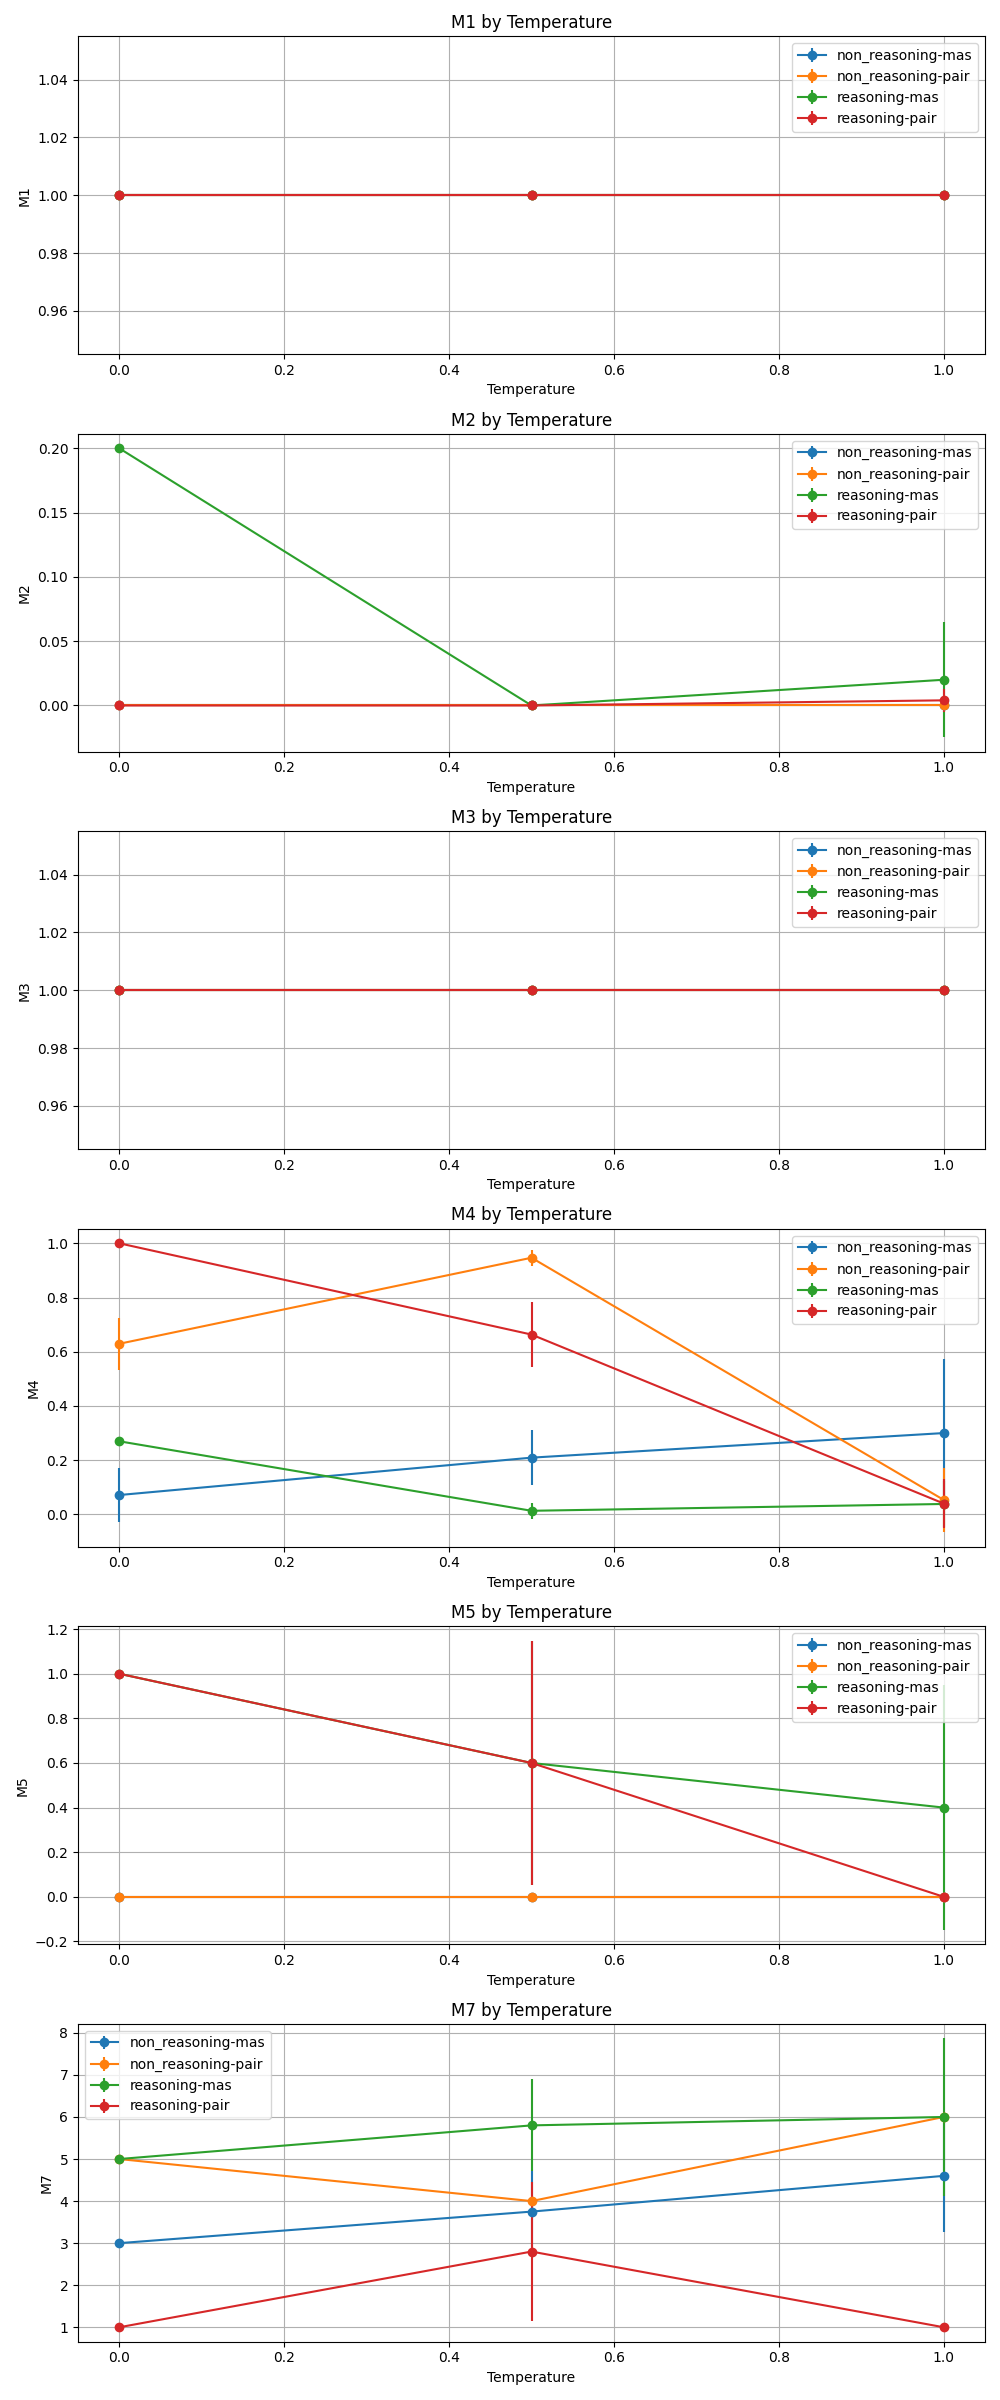
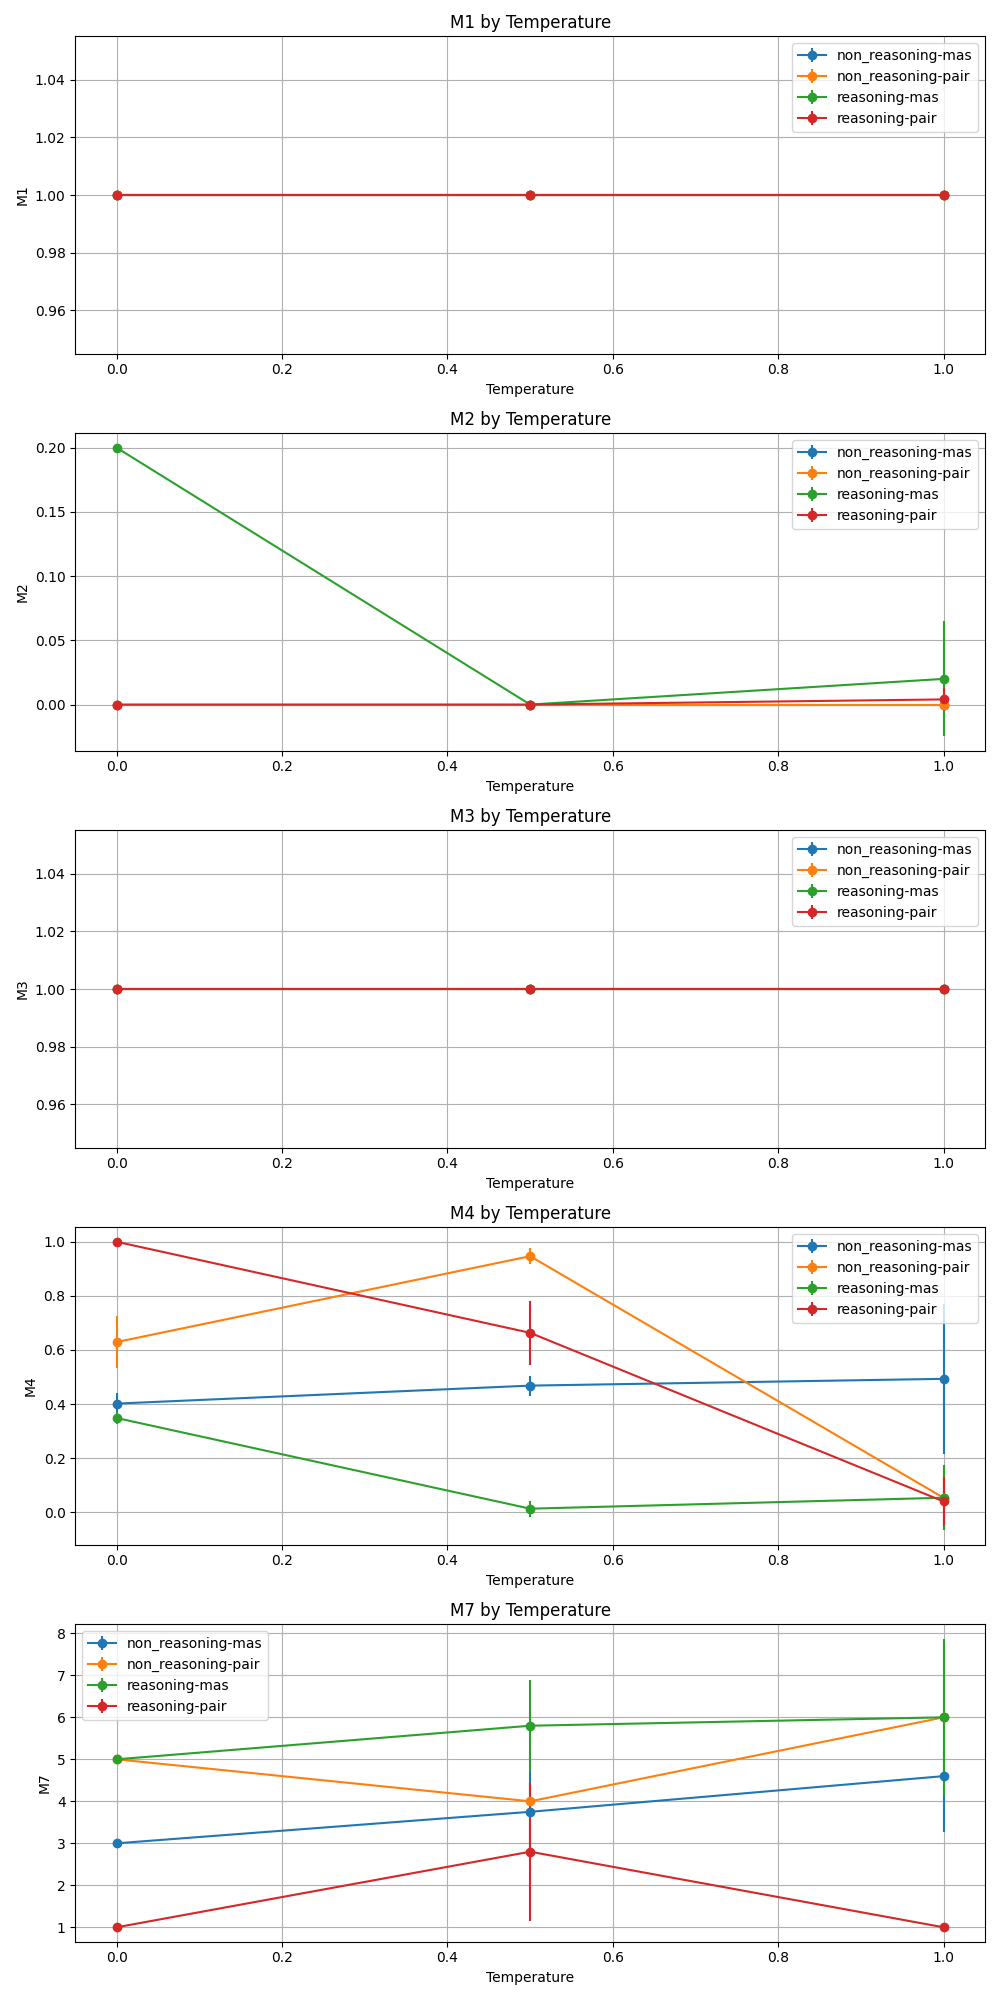
fix metrics by reading wall time and number of runs form experiments logs

diff --git a/eval_saved.py b/eval_saved.py
@@ -135,15 +135,14 @@ def evaluate_folder(folder: Path) -> Dict[str, Any]:
 
     # aggregate per-run:
     #  - average M1–M4 across snapshots
-    #  - M5 from the final snapshot's workflow_complete flag
-    #  - M6 = wall-time from first to last snapshot
+    #  - M5 and M6 will be set from experiment logs in process_batch
     #  - M7 = node-count in the final snapshot
     agg = {
         "run": folder.name,
         "n_snapshots": n,
         **{m: sum(p[m] for p in per_snap) / n for m in ("M1", "M2", "M3", "M4")},
-        "M5": per_snap[-1]["_complete"],
-        "M6": _compute_wall_time(snaps),
+        "M5": per_snap[-1]["_complete"],  # Will be overridden by experiment logs
+        "M6": _compute_wall_time(snaps),  # Will be overridden by experiment logs
         "M7": per_snap[-1]["M7"],
     }
 
@@ -160,12 +159,12 @@ def _compute_wall_time(snaps: List[Path]) -> float:
 # ──────────────────────────────────────────────
 
 def load_experiment_logs(batch_id: str) -> Dict[str, Dict]:
-    """Load experimental logs for the batch and create a mapping from run_id to success status."""
+    """Load experimental logs for the batch and create a mapping from run_id to success status and wall_time."""
     log_file = Path("experiment_logs") / f"experiment_log_{batch_id}.jsonl"
     if not log_file.exists():
         return {}
     
-    run_success_map = {}
+    run_data_map = {}
     with open(log_file, 'r') as f:
         for line in f:
             if line.strip():
@@ -173,9 +172,13 @@ def load_experiment_logs(batch_id: str) -> Dict[str, Dict]:
                 config = data["config"]
                 run_id = config["run_id"]
                 success = data["success"]
-                run_success_map[run_id] = success
+                wall_time = data.get("wall_time", 0.0)  # Get wall_time from experiment logs
+                run_data_map[run_id] = {
+                    "success": success,
+                    "wall_time": wall_time
+                }
     
-    return run_success_map
+    return run_data_map
 
 
 def process_batch(base_dir: Path, batch_id: str) -> pd.DataFrame:
@@ -199,9 +202,10 @@ def process_batch(base_dir: Path, batch_id: str) -> pd.DataFrame:
         if "error" in metrics:
             continue
         
-        # Update M5 with success status from experimental logs
+        # Update M5 and M6 with data from experimental logs
         if i in experiment_logs:
-            metrics["M5"] = 1.0 if experiment_logs[i] else 0.0
+            metrics["M5"] = 1.0 if experiment_logs[i]["success"] else 0.0
+            metrics["M6"] = experiment_logs[i]["wall_time"]
         
         records.append({
             **entry,
@@ -213,21 +217,30 @@ def process_batch(base_dir: Path, batch_id: str) -> pd.DataFrame:
 
 def generate_report(df: pd.DataFrame, output_dir: Path, batch_id: str):
     """Generate CSV, LaTeX, and plots for the batch."""
-    # include M7 node counts in the summary statistics
-    stats = (
+    # Calculate statistics - M5 as count, others as mean/std
+    stats_m5 = (
+        df.groupby(["llm_type", "temperature", "workflow"])
+        .agg({
+            "M5": ["sum"],  # Count successful runs
+        })
+        .round(0)  # No decimals for counts
+    )
+    
+    stats_others = (
         df.groupby(["llm_type", "temperature", "workflow"])
         .agg({
             "M1": ["mean", "std"],
             "M2": ["mean", "std"],
             "M3": ["mean", "std"],
             "M4": ["mean", "std"],
-            "M5": ["mean", "std"],
             "M6": ["mean", "std"],
             "M7": ["mean", "std"],
-            "n_snapshots": ["mean", "std"],
         })
         .round(3)
     )
+    
+    # Combine the statistics
+    stats = pd.concat([stats_m5, stats_others], axis=1)
     
     # Save CSV
     output_dir.mkdir(parents=True, exist_ok=True)
@@ -250,7 +263,7 @@ def generate_report(df: pd.DataFrame, output_dir: Path, batch_id: str):
         print(f"DataFrame columns: {df.columns.tolist()}")
         
         # plot all percentage metrics plus M7 (node counts)
-        metrics = ["M1", "M2", "M3", "M4", "M5", "M7"]
+        metrics = ["M1", "M2", "M3", "M4", "M7"]
         fig, axes = plt.subplots(len(metrics), 1, figsize=(10, 4 * len(metrics)))
         for ax, metric in zip(axes, metrics):
             print(f"  Plotting metric: {metric}")
@@ -325,25 +338,34 @@ def format_mean_std(mean_val, std_val):
     return f"{mf}\\,$\\pm$\\,{sf}"
 
 
-
 def generate_latex_table(df: pd.DataFrame, output_path: Path, batch_id: str):
     """Generate custom LaTeX table in the specified format."""
     
     try:
-        # Calculate statistics
-        stats = (
+        # Calculate statistics - M5 as count, others as mean/std
+        stats_m5 = (
+            df.groupby(["llm_type", "temperature", "workflow"])
+            .agg({
+                "M5": ["sum"],  # Count successful runs
+            })
+            .round(0)  # No decimals for counts
+        )
+        
+        stats_others = (
             df.groupby(["llm_type", "temperature", "workflow"])
             .agg({
                 "M1": ["mean", "std"],
                 "M2": ["mean", "std"],
                 "M3": ["mean", "std"],
                 "M4": ["mean", "std"],
-                "M5": ["mean", "std"],
                 "M6": ["mean", "std"],
                 "M7": ["mean", "std"],
             })
             .round(3)
         )
+        
+        # Combine the statistics
+        stats = pd.concat([stats_m5, stats_others], axis=1)
         
         # Get unique values from data
         llm_types = sorted(df["llm_type"].unique())
@@ -373,7 +395,7 @@ def generate_latex_table(df: pd.DataFrame, output_path: Path, batch_id: str):
             f.write(r"  \label{tab:main-results}" + "\n")
             f.write(r"  \begin{tabular}{llcccccccc}" + "\n")
             f.write(r"    \toprule" + "\n")
-            f.write(r"    \textbf{LLM} & \textbf{System} & \textbf{Temp} & \textbf{M1 (\%)$\uparrow$} & \textbf{M2 (\%)$\uparrow$} & \textbf{M3 (\%)$\uparrow$} & \textbf{M4 (\%)$\uparrow$} & \textbf{M5 (\%)$\uparrow$} & \textbf{M6 (s)$\downarrow$} & \textbf{M7 (\# N)$\uparrow$} \\" + "\n")
+            f.write(r"    \textbf{LLM} & \textbf{System} & \textbf{Temp} & \textbf{M1 (\%)$\uparrow$} & \textbf{M2 (\%)$\uparrow$} & \textbf{M3 (\%)$\uparrow$} & \textbf{M4 (\%)$\uparrow$} & \textbf{M5 (\#)$\uparrow$} & \textbf{M6 (s)$\downarrow$} & \textbf{M7 (\# N)$\uparrow$} \\" + "\n")
             f.write(r"    \midrule" + "\n")
             
             # Generate table rows
@@ -400,18 +422,30 @@ def generate_latex_table(df: pd.DataFrame, output_path: Path, batch_id: str):
                             try:
                                 # Check if the combination exists in stats
                                 if (llm_type, temp, workflow) in stats.index:
-                                    mean_val = stats.loc[(llm_type, temp, workflow), (metric, "mean")]
-                                    std_val = stats.loc[(llm_type, temp, workflow), (metric, "std")]
-                                    # Convert to percent for display for M1-M5
-                                    if metric in ["M1", "M2", "M3", "M4", "M5"]:
-                                        mean_val *= 100
-                                        std_val *= 100
-                                    formatted_val = format_mean_std(mean_val, std_val)
+                                    if metric == "M5":
+                                        # M5 is a count, no standard deviation
+                                        count_val = stats.loc[(llm_type, temp, workflow), (metric, "sum")]
+                                        formatted_val = f"{int(count_val)}"
+                                    else:
+                                        # Other metrics have mean and std
+                                        mean_val = stats.loc[(llm_type, temp, workflow), (metric, "mean")]
+                                        std_val = stats.loc[(llm_type, temp, workflow), (metric, "std")]
+                                        # Convert to percent for display for M1-M4
+                                        if metric in ["M1", "M2", "M3", "M4"]:
+                                            mean_val *= 100
+                                            std_val *= 100
+                                        formatted_val = format_mean_std(mean_val, std_val)
                                 else:
-                                    formatted_val = r"\tbd\,$\pm$\,\tbd"
+                                    if metric == "M5":
+                                        formatted_val = "0"  # No successful runs
+                                    else:
+                                        formatted_val = r"\tbd\,$\pm$\,\tbd"
                             except Exception as e:
                                 print(f"Warning: Could not get {metric} for {llm_type}, {temp}, {workflow}: {e}")
-                                formatted_val = r"\tbd\,$\pm$\,\tbd"
+                                if metric == "M5":
+                                    formatted_val = "0"
+                                else:
+                                    formatted_val = r"\tbd\,$\pm$\,\tbd"
                             
                             f.write(f" & {formatted_val}")
                         

diff --git a/experiment_results/experiment_stats_ALL.tex b/experiment_results/experiment_stats_ALL.tex
@@ -4,28 +4,28 @@
   \label{tab:main-results}
   \begin{tabular}{llcccccccc}
     \toprule
-    \textbf{LLM} & \textbf{System} & \textbf{Temp} & \textbf{M1 (\%)$\uparrow$} & \textbf{M2 (\%)$\uparrow$} & \textbf{M3 (\%)$\uparrow$} & \textbf{M4 (\%)$\uparrow$} & \textbf{M5 (\%)$\uparrow$} & \textbf{M6 (s)$\downarrow$} & \textbf{M7 (\# N)$\uparrow$} \\
+    \textbf{LLM} & \textbf{System} & \textbf{Temp} & \textbf{M1 (\%)$\uparrow$} & \textbf{M2 (\%)$\uparrow$} & \textbf{M3 (\%)$\uparrow$} & \textbf{M4 (\%)$\uparrow$} & \textbf{M5 (\#)$\uparrow$} & \textbf{M6 (s)$\downarrow$} & \textbf{M7 (\# N)$\uparrow$} \\
     \midrule
     \multirow{6}{*}{Llama 3.3 70B}
       & \multirow{3}{*}{MAS}
-        & 0.0 & 100\,$\pm$\,0 & 0\,$\pm$\,0 & 100\,$\pm$\,0 & 7\,$\pm$\,10 & 0\,$\pm$\,0 & 0\,$\pm$\,0 & 3\,$\pm$\,0 \\
-    & & 0.5 & 100\,$\pm$\,0 & 0\,$\pm$\,0 & 100\,$\pm$\,0 & 21\,$\pm$\,10 & 0\,$\pm$\,0 & 0\,$\pm$\,0 & 3.75\,$\pm$\,0.96 \\
-    & & 1.0 & 100\,$\pm$\,0 & 0\,$\pm$\,0 & 100\,$\pm$\,0 & 30\,$\pm$\,27 & 0\,$\pm$\,0 & 0\,$\pm$\,0 & 4.6\,$\pm$\,1.3 \\
+        & 0.0 & 100\,$\pm$\,0 & 0\,$\pm$\,0 & 100\,$\pm$\,0 & 40.2\,$\pm$\,3.8 & 0 & 661.7\,$\pm$\,5.2 & 3\,$\pm$\,0 \\
+    & & 0.5 & 100\,$\pm$\,0 & 0\,$\pm$\,0 & 100\,$\pm$\,0 & 46.8\,$\pm$\,3.7 & 0 & 682\,$\pm$\,242 & 3.75\,$\pm$\,0.96 \\
+    & & 1.0 & 100\,$\pm$\,0 & 0\,$\pm$\,0 & 100\,$\pm$\,0 & 49\,$\pm$\,28 & 0 & 691\,$\pm$\,153 & 4.6\,$\pm$\,1.3 \\
     \cmidrule{2-10}
       & \multirow{3}{*}{2AS}
-        & 0.0 & 100\,$\pm$\,0 & 0\,$\pm$\,0 & 100\,$\pm$\,0 & 62.9\,$\pm$\,9.5 & 0\,$\pm$\,0 & 827\,$\pm$\,12 & 5\,$\pm$\,0 \\
-    & & 0.5 & 100\,$\pm$\,0 & 0\,$\pm$\,0 & 100\,$\pm$\,0 & 94.7\,$\pm$\,3 & 0\,$\pm$\,0 & 711\,$\pm$\,20 & 4\,$\pm$\,0 \\
-    & & 1.0 & 100\,$\pm$\,0 & 0\,$\pm$\,0 & 100\,$\pm$\,0 & 5\,$\pm$\,12 & 0\,$\pm$\,0 & 637\,$\pm$\,14 & 6\,$\pm$\,0 \\
+        & 0.0 & 100\,$\pm$\,0 & 0\,$\pm$\,0 & 100\,$\pm$\,0 & 62.9\,$\pm$\,9.5 & 0 & 1391\,$\pm$\,36 & 5\,$\pm$\,0 \\
+    & & 0.5 & 100\,$\pm$\,0 & 0\,$\pm$\,0 & 100\,$\pm$\,0 & 94.7\,$\pm$\,3 & 0 & 1192\,$\pm$\,52 & 4\,$\pm$\,0 \\
+    & & 1.0 & 100\,$\pm$\,0 & 0\,$\pm$\,0 & 100\,$\pm$\,0 & 5\,$\pm$\,12 & 0 & 1097\,$\pm$\,94 & 6\,$\pm$\,0 \\
     \midrule
     \multirow{6}{*}{DeepSeek R1 70B}
       & \multirow{3}{*}{MAS}
-        & 0.0 & 100\,$\pm$\,0 & 20\,$\pm$\,0 & 100\,$\pm$\,0 & 27\,$\pm$\,0.4 & 100\,$\pm$\,0 & 0\,$\pm$\,0 & 5\,$\pm$\,0 \\
-    & & 0.5 & 100\,$\pm$\,0 & 0\,$\pm$\,0 & 100\,$\pm$\,0 & 1.3\,$\pm$\,3 & 60\,$\pm$\,55 & 88\,$\pm$\,123 & 5.8\,$\pm$\,1.1 \\
-    & & 1.0 & 100\,$\pm$\,0 & 2\,$\pm$\,4.5 & 100\,$\pm$\,0 & 3.8\,$\pm$\,8.6 & 40\,$\pm$\,55 & 101\,$\pm$\,132 & 6\,$\pm$\,1.9 \\
+        & 0.0 & 100\,$\pm$\,0 & 20\,$\pm$\,0 & 100\,$\pm$\,0 & 34.8\,$\pm$\,2.1 & 2 & 652\,$\pm$\,452 & 5\,$\pm$\,0 \\
+    & & 0.5 & 100\,$\pm$\,0 & 0\,$\pm$\,0 & 100\,$\pm$\,0 & 1.3\,$\pm$\,3 & 3 & 225\,$\pm$\,119 & 5.8\,$\pm$\,1.1 \\
+    & & 1.0 & 100\,$\pm$\,0 & 2\,$\pm$\,4.5 & 100\,$\pm$\,0 & 5\,$\pm$\,12 & 2 & 729\,$\pm$\,619 & 6\,$\pm$\,1.9 \\
     \cmidrule{2-10}
       & \multirow{3}{*}{2AS}
-        & 0.0 & 100\,$\pm$\,0 & 0\,$\pm$\,0 & 100\,$\pm$\,0 & 100\,$\pm$\,0 & 100\,$\pm$\,0 & 0\,$\pm$\,0 & 1\,$\pm$\,0 \\
-    & & 0.5 & 100\,$\pm$\,0 & 0\,$\pm$\,0 & 100\,$\pm$\,0 & 66\,$\pm$\,12 & 60\,$\pm$\,55 & 494\,$\pm$\,162 & 2.8\,$\pm$\,1.6 \\
-    & & 1.0 & 100\,$\pm$\,0 & 0.4\,$\pm$\,0.9 & 100\,$\pm$\,0 & 4\,$\pm$\,8.9 & 0\,$\pm$\,0 & 24\,$\pm$\,53 & 1\,$\pm$\,0 \\
+        & 0.0 & 100\,$\pm$\,0 & 0\,$\pm$\,0 & 100\,$\pm$\,0 & 100\,$\pm$\,0 & 5 & 38.6\,$\pm$\,0.68 & 1\,$\pm$\,0 \\
+    & & 0.5 & 100\,$\pm$\,0 & 0\,$\pm$\,0 & 100\,$\pm$\,0 & 66\,$\pm$\,12 & 3 & 912\,$\pm$\,661 & 2.8\,$\pm$\,1.6 \\
+    & & 1.0 & 100\,$\pm$\,0 & 0.4\,$\pm$\,0.9 & 100\,$\pm$\,0 & 4\,$\pm$\,8.9 & 0 & 435\,$\pm$\,609 & 1\,$\pm$\,0 \\
   \end{tabular}
 \end{table}
